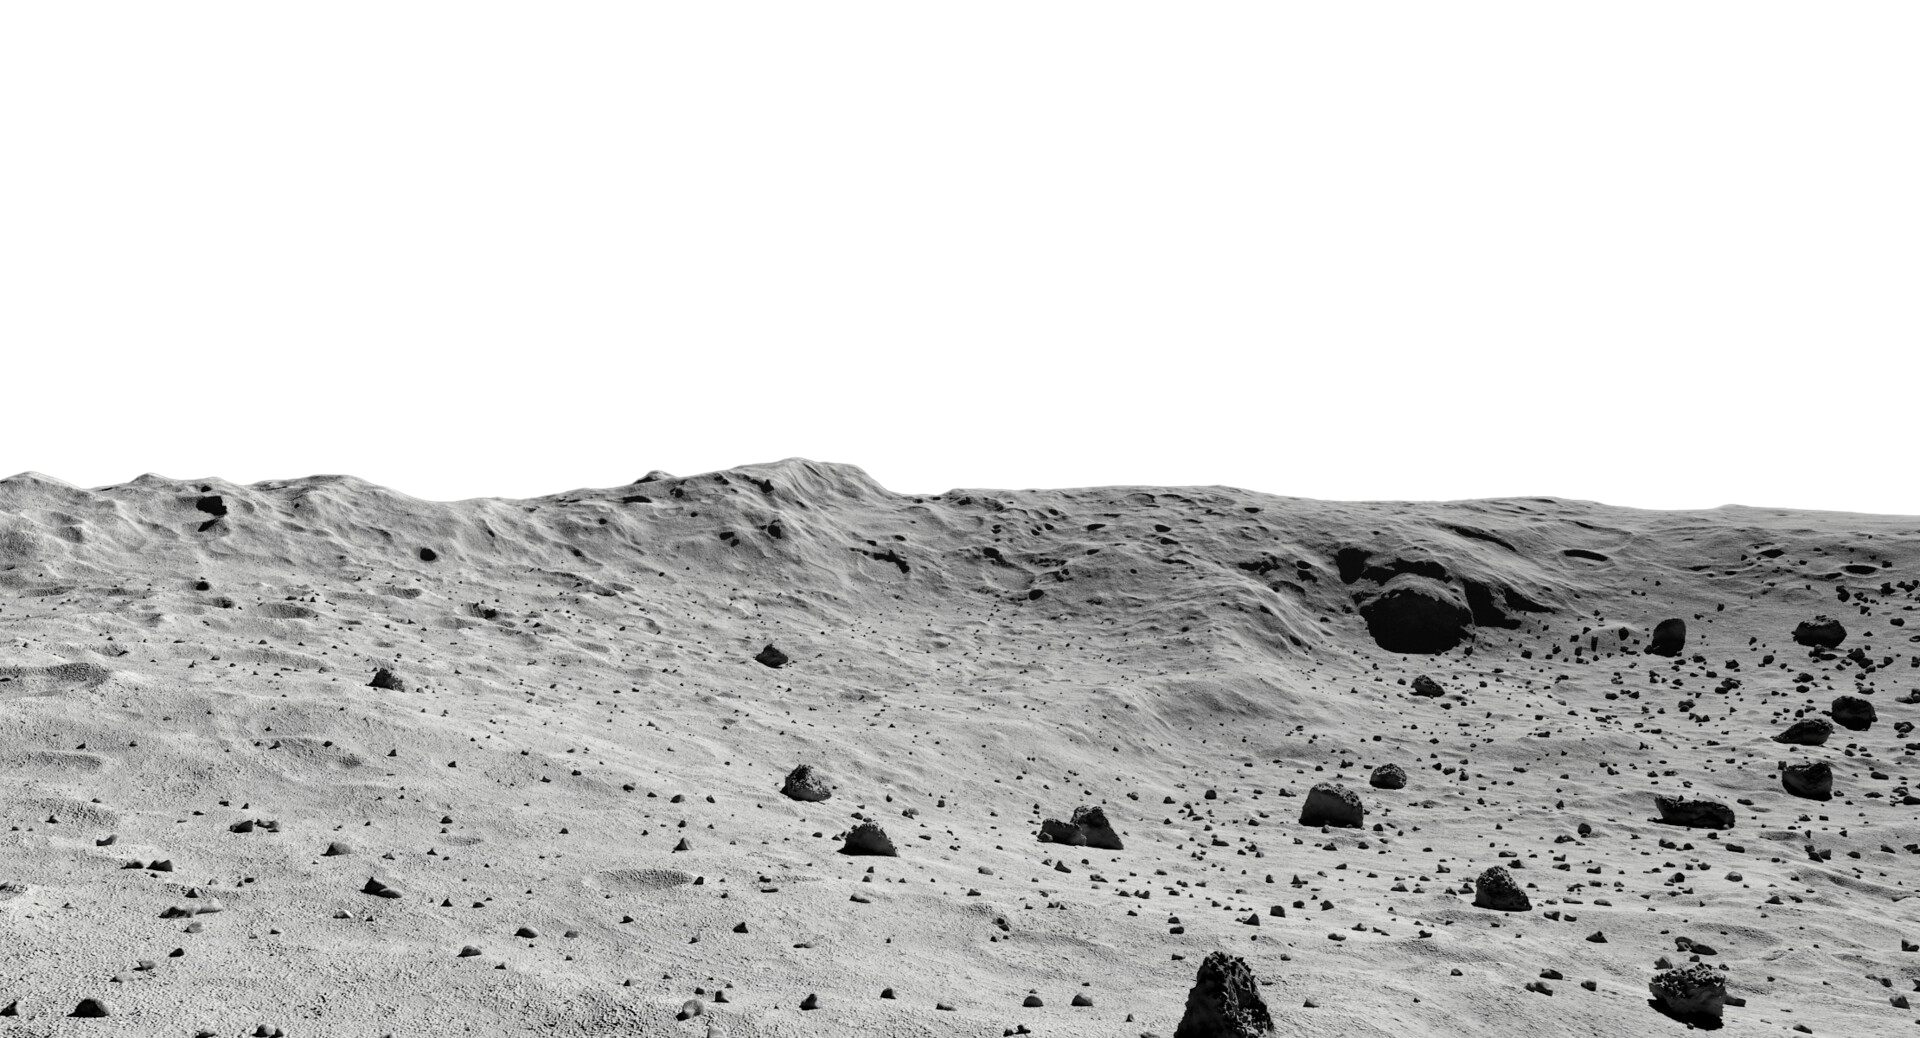
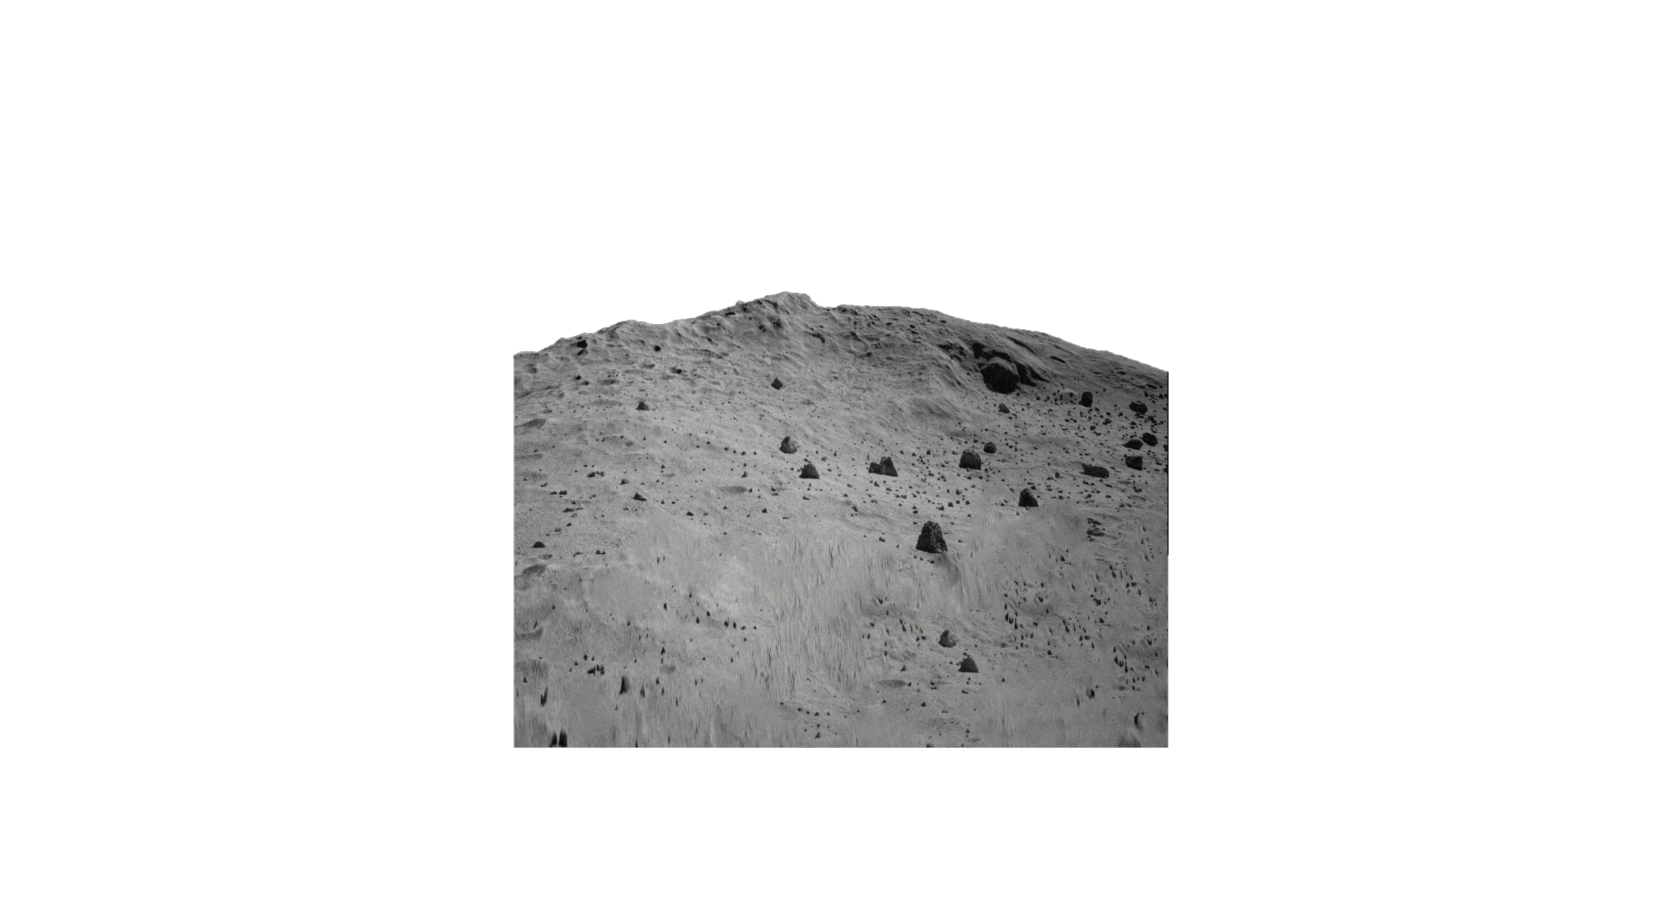
.

diff --git a/main.css b/main.css
@@ -1,7 +1,7 @@
 body {
     height: 100vh;
     margin: 0;
-    background-color: black;
+    background-color: #0c0d11;
 }
 body::-webkit-scrollbar{
     display: none;
@@ -12,24 +12,27 @@ body::-webkit-scrollbar{
 
 }
 #floor-wrapper{
-    height: 100%;
+    width: 100vw;
     display: flex;
     overflow: hidden;
+    flex-direction: column;
+    object-fit: cover;
+}
+#floor_spacer{
+    height: 50vh;
+    width: 100%;
 }
 #floor {
-    padding-top: 30vh;
     width: 100%;
     overflow: hidden;
-    object-fit: cover;
-    transform: scale(1.2);
+    opacity: 0.50;
+
 }
 #spaceman-wrapper {
-    width: 100%;
-    height: 100%;
     position: absolute;
-    top: 0;
-    left: 0;
-    transform: rotate(-30deg);
+    top: 50vh;
+    left: 70vw;
+    transform: translateX(-50%) translateY(-50%);
 }
 .background{
     height: 100%;

diff --git a/main.js b/main.js
@@ -1,9 +1,8 @@
-document.addEventListener("mousemove", (e) => {
-    const mouseX = e.clientX;
-    const mouseY = e.clientY;
-    console.log(mouseX)
-    console.log(mouseY)
-    console.log(15*(mouseX/screen.width))
-    document.getElementById("floor-wrapper").style.transform = "translateX("+(-10*mouseX/screen.width+5)+"px)";
-
-});
+//document.addEventListener("mousemove", (e) => {
+//    const mouseX = e.clientX;
+//    const mouseY = e.clientY;
+//    console.log(mouseX)
+//    console.log(mouseY)
+//    console.log(15*(mouseX/screen.width))
+//    document.getElementById("floor-wrapper").style.transform = "translateX("+(-10*mouseX/screen.width+5)+"px)";
+//});

diff --git a/index.html b/index.html
@@ -8,8 +8,8 @@
 <body>
 <div class="background">
     <div id="floor-wrapper">
-        <img id="floor" src="assets/ground.png">
-
+        <div id="floor_spacer"></div>
+        <img id="floor" src="assets/floor.png">
     </div>
     <div id="spaceman-wrapper">
         <img id="spaceman" src="assets/spaceman.png">
